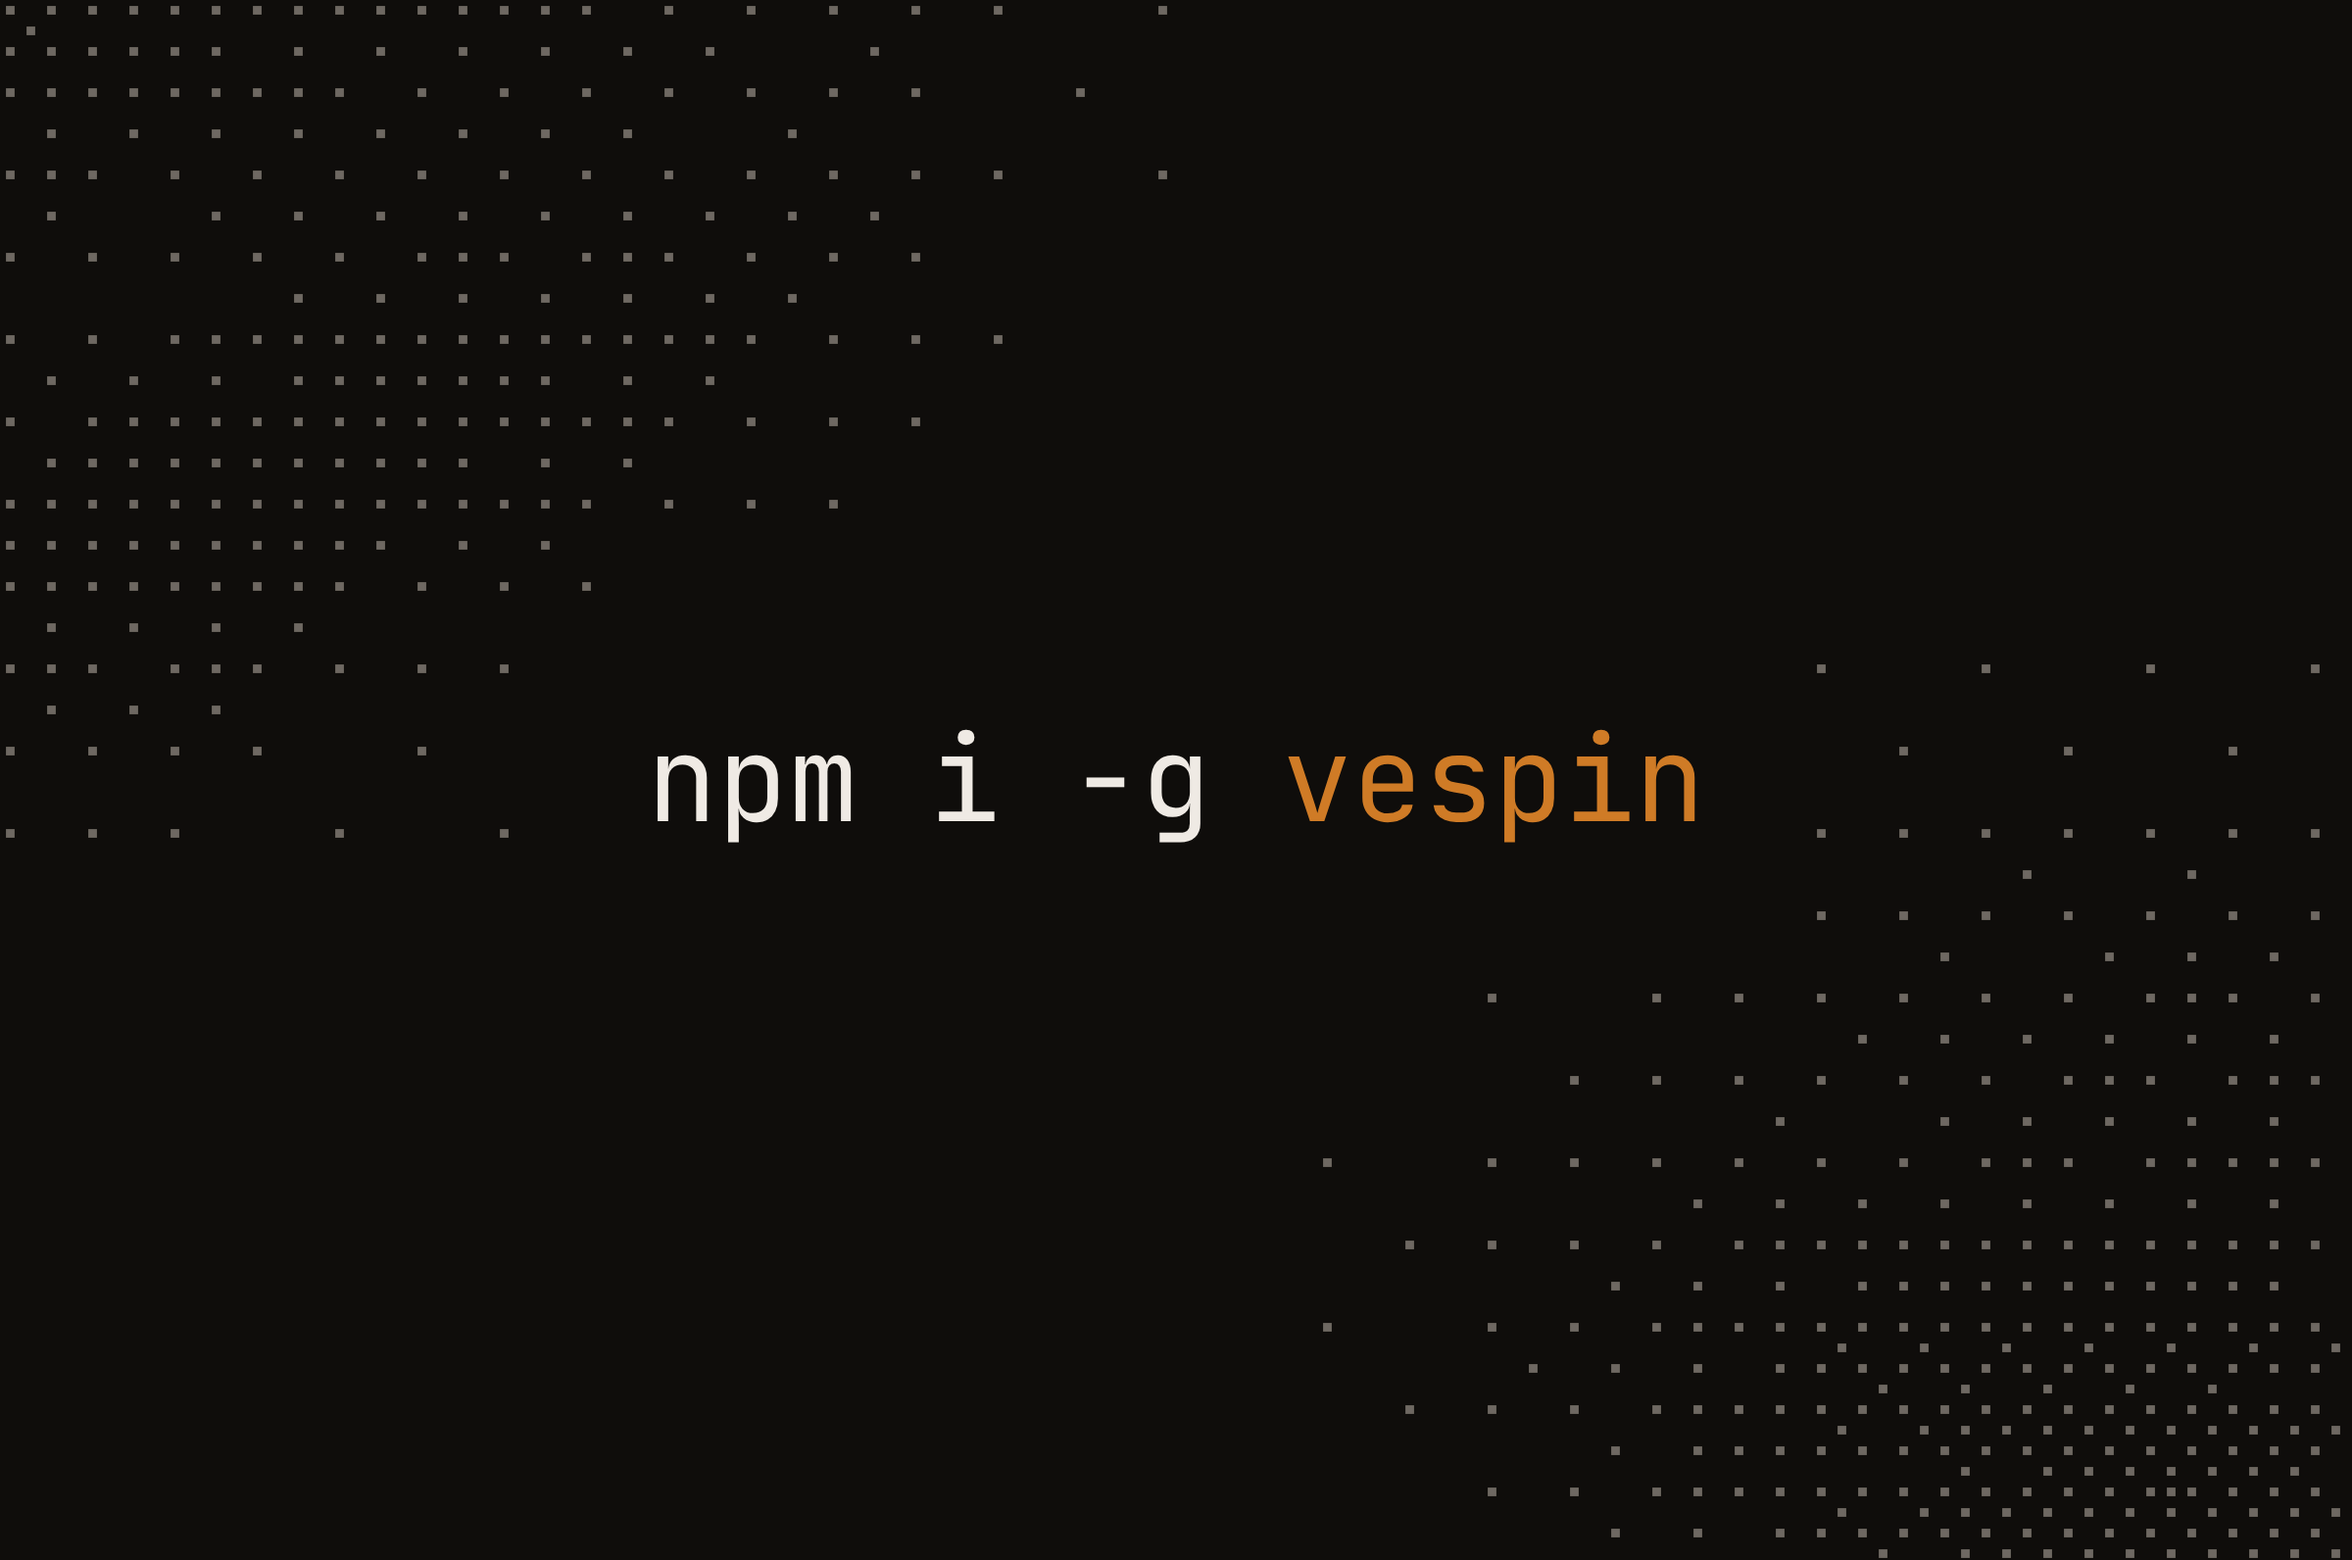
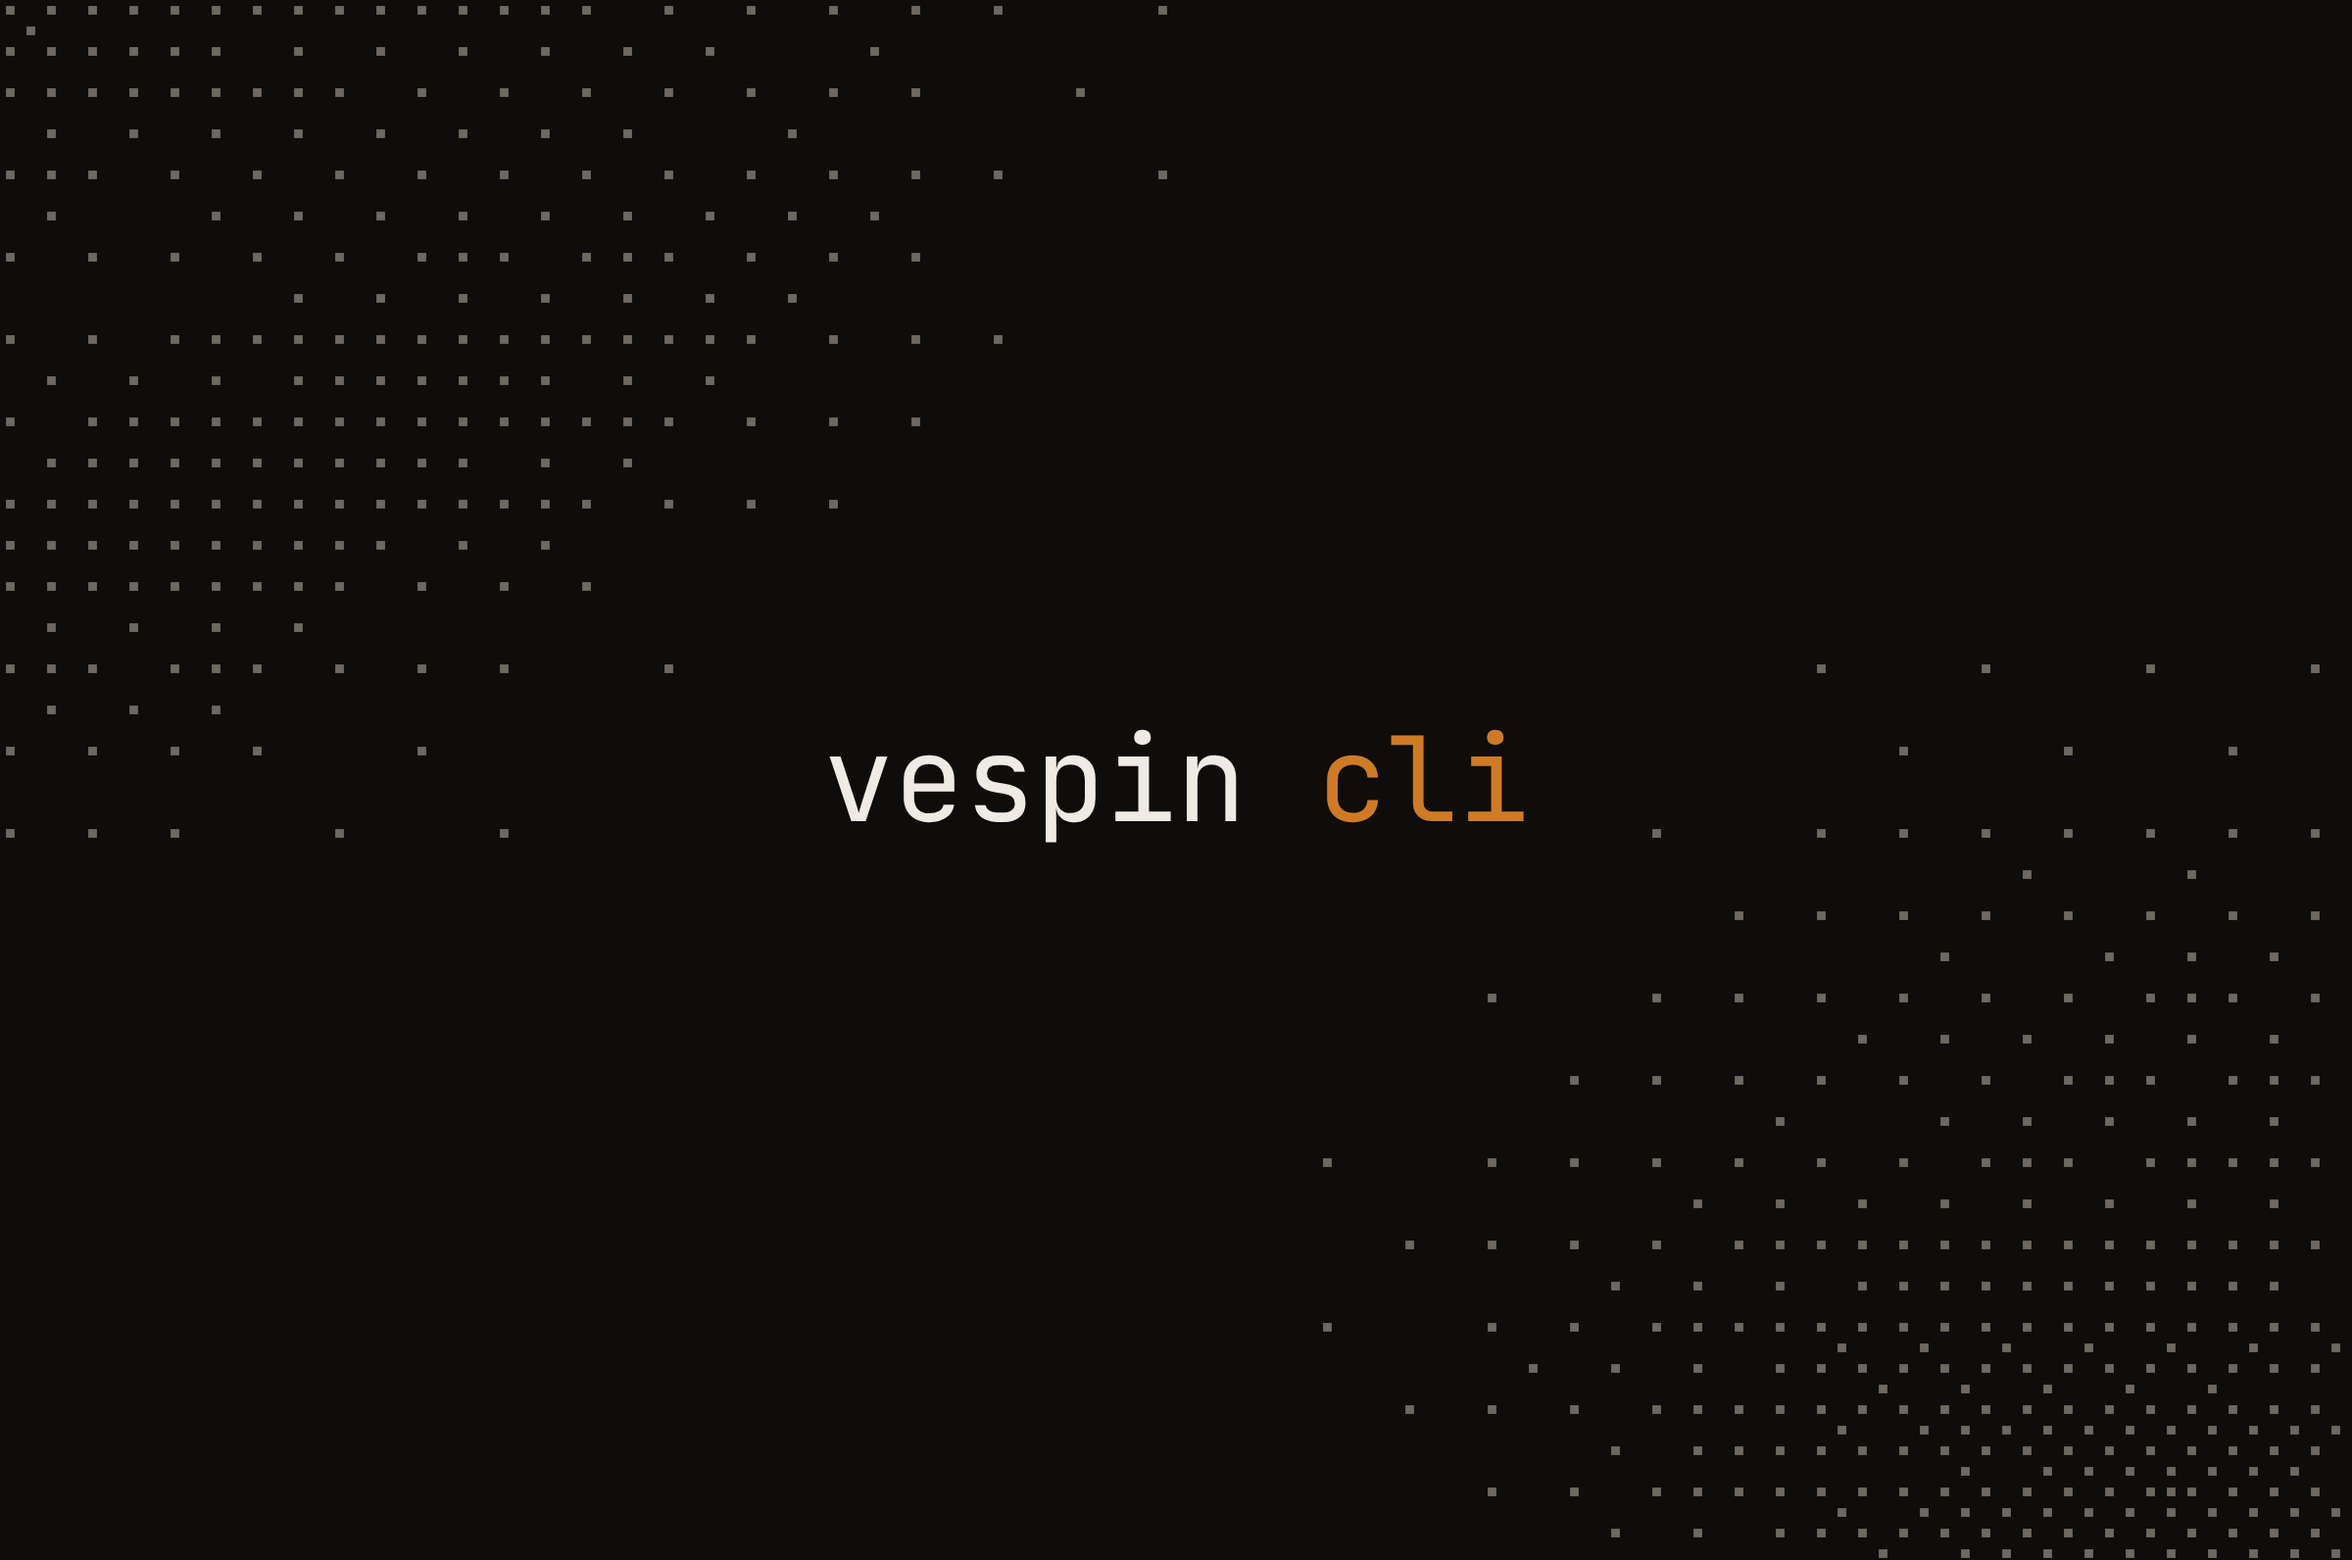
docs(changelog): crop 0.28.0's picker to the composer, and read vespin cli on the card

Changed region(s): [[0.2812, 0.4617, 0.7188, 0.554]]

diff --git a/.agents/skills/changelog-screenshots/staging/releases/v0.28.0-cli-card.html b/.agents/skills/changelog-screenshots/staging/releases/v0.28.0-cli-card.html
@@ -33,7 +33,7 @@ const c=document.getElementById('c'),x=c.getContext('2d');const W=2400,H=1592;
 x.fillStyle=ground;x.fillRect(0,0,W,H);
 const cell=7*S,dot=cell*0.42;const w=W/S,h=H/S;
 // The address, laid out once, for both the plate and the dotted lettering.
-const word1=q.get('w1')??'npm i -g ',word2=q.get('w2')??'vespin';x.font='120px Mono, monospace';
+const word1=q.get('w1')??'vespin ',word2=q.get('w2')??'cli';x.font='120px Mono, monospace';
 document.fonts.load('120px Mono, monospace').then(()=>{
  x.font='120px Mono, monospace';const w1=x.measureText(word1).width,w2=x.measureText(word2).width;const tw=w1+w2,tx=q.get('tx')?+q.get('tx'):(W-tw)/2,ty=q.get('ty')?+q.get('ty'):H/2+42;
  let mask=null;

diff --git a/.agents/skills/changelog-screenshots/staging/releases/README.md b/.agents/skills/changelog-screenshots/staging/releases/README.md
@@ -70,9 +70,9 @@ adjusting, and capture with the same profile, zoom, and crop.
 | 0.26.0 | `af2410a9` (version PR head) | not landed: the Settings › Integrations close-up of Agents with access, offered beside the card | `shot-mcp-clients` (`APP_SHOT_SETTLE=12`) | 1 | — |
 | 0.28.0 | `v0.28.0` (`50c357b7`) | `cloud-agents-on-your-mac.png` | `shot-mac` (`APP_SHOT_SETTLE=14`) | 1 | whole window |
 | 0.28.0 | `v0.28.0` (`50c357b7`) | `review-a-page-in-one-message.png` | `shot-page-review` (`APP_SHOT_SETTLE=14`) | 2 | `420,85,1150,767` |
-| 0.28.0 | `v0.28.0` (`50c357b7`) | `the-vespin-cli.png` | none: `v0.28.0-cli-card.html?p=flow&e=soft2&k=2.0&m=bare&g=%230f0d0b&i=%23efeae4&a=%23cf7b26&d=%236e6862`, 0.26.0's MCP card with its words read from `w1` and `w2` (`npm i -g ` and `vespin` unless given) | — | 2400 by 1592, unframed |
+| 0.28.0 | `v0.28.0` (`50c357b7`) | `the-vespin-cli.png` | none: `v0.28.0-cli-card.html?p=flow&e=soft2&k=2.0&m=bare&g=%230f0d0b&i=%23efeae4&a=%23cf7b26&d=%236e6862`, `&w1=vespin%20&w2=cli`, 0.26.0's MCP card with its words read from `w1` and `w2` | — | 2400 by 1592, unframed |
 | 0.28.0 | `v0.28.0` (`50c357b7`) | not landed: Settings › Vespin CLI, installed and signed in, replaced by the card | `shot-cli` (`APP_SHOT_SETTLE=10`) | 2 | `-60,-50,1380,920` |
-| 0.28.0 | `v0.28.0` (`50c357b7`) | `several-repositories.png` | `shot-repositories` (`APP_SHOT_SETTLE=10`) | 2 | `432,-60,750,500` |
+| 0.28.0 | `v0.28.0` (`50c357b7`) | `several-repositories.png` | `shot-repositories` (`APP_SHOT_SETTLE=10`) | 2 | `416,-60,768,512`, then `sips -c 762 2387 --cropOffset 760 0`: 2387 by 762 |
 
 0.14.0 was shot from `2ec91a61`, the head of its version pull request (#2871) before its pictures landed; `v0.14.0.patch` carries 0.13.0's module onto it, with 0.14.0's five shots beside the earlier ones.
 
@@ -94,7 +94,7 @@ Every shot can be checked before the Mac: on Linux, Electron runs under `xvfb-ru
 
 0.26.0 was shot from the head of its version pull request. `v0.26.0.patch` carries 0.25.0's module onto 0.26.0, whose reads moved from acts into host slices: the members, models, preferences, credentials, integrations, MCP clients, repositories, each agent's published pull request, each task's plan (`LIVE_READ.PLAN_DOCUMENT`), pages (`LIVE_READ.PAGES`), and comments are laid over the snapshot (`account-reads.ts`, `ShotSpec.live`), the account signed in under an id they are keyed by. The repository picture moved into `@repo/ui`, which reads the owner picture through a `globalThis.shotOwnerPicture` seam `shot-profiles.ts` sets. Only the shared world, Home, Board, page comments, and 0.26.0's shots are kept. A page of another task opens beside the agent only from a press inside the transcript, so `shot-places` gives the agent a reply naming the page and presses its mention; `onOpenLink` would move the whole window. Main serves the pages from `fixture-stage.ts` (`SHOT_FUNNEL_PAGE`, `SHOT_BILLING_PAGE`), which the web app's fixture switch cannot, so a page draws blank in a Linux Chromium preview and only on the Mac. Electron's binary would not download in the agent's sandbox, so the shots were previewed through the web app's fixture switch in headless Chromium, its dev server started in the same command as Playwright, since each command runs in its own network namespace. The Mac's framer runs from the throwaway worktree, since `scripts/changelog-screenshot.sh` sources `scripts/lib/`, and a capture that answers "could not create image from display" means the display is asleep. At the developer's ask, "Your agents can work Vespin" is a card rather than a window: the address on graphite with the landing's own dots, its dither and flow field copied into `v0.26.0-mcp-card.html` and kept to two soft corners, chosen after rounds that ruled out glow, a headline, a terminal, and more than two symbols. Every agent works on a task and Instant, even offline have no picture.
 
-0.27.0 has no pictures. 0.28.0 was shot from its tag, taken after it shipped. `v0.28.0.patch` carries 0.26.0's module onto 0.28.0, where the app state is one TanStack Query query: `use-app-state.ts`'s fixture staging (`staged`) lays the shot's snapshot over the fixture's, and `currentShot` reads the run through `fixtureClient()` and `appStateIn`, since `appStateNow` is gone. Plans are descriptions now (`DESCRIPTION_*`, `description-comment-wire`, `LIVE_READ.DESCRIPTION_*`), and behind the Descriptions experiment, so no shot draws one. An agent's transcript is a host slice now (`LIVE_READ.TRANSCRIPT`, by agent and `OWN_TRANSCRIPT`), which `coding-agent.ts`'s `shotHeldTranscript` stages. `ShotSpec.stage` lays anything else over the snapshot, such as the desktop's capabilities (`PORT_FORWARDS`, `LOCAL_TERMINALS`, `CLI_INSTALL`) and the agent's `portForwarding`. The Local shell's port is posted to the window as 0.14.0's terminal shot did, its attach answered `null`, since `undefined` hands an act to main. A page's review is held in the renderer's storage (`app.pageReviews`, by account), which `page-review.ts` writes before the window reads it. A popup a step opens is held open by `dom-steps.ts`'s `holdOpenStep`, which presses again whenever no drawn menu or dialog holds its words, since the capture's activation closes it. New task's chip picks several only after its stand-in is replaced, so `repositories.ts` presses relay before web. The Mac's `run_on_mac` output is too short to carry pictures, so previews and finished PNGs crossed through `refs/release-shots/out`; the Mac's clone refuses `--tags` over the moved 0.8.0, 0.18.0, and 0.19.0 tags, so fetch the one tag by name. A page's frame now draws the app's ground wherever the page's own `html` sets none, so a staged page sets its `html` background (`fixture-stage.ts`'s `SHOT_PAGE`), or it stands as a box in black. Home with no tasks greets a new account and drew a blank window in the preview, so the repository picker's close-up runs from the wallpaper above the window's edge down to the composer instead, leaving the Inbox below out. At the developer's ask, The Vespin CLI is a card like 0.26.0's MCP card rather than its Settings page. The release's other sections and the Improvements have no picture.
+0.27.0 has no pictures. 0.28.0 was shot from its tag, taken after it shipped. `v0.28.0.patch` carries 0.26.0's module onto 0.28.0, where the app state is one TanStack Query query: `use-app-state.ts`'s fixture staging (`staged`) lays the shot's snapshot over the fixture's, and `currentShot` reads the run through `fixtureClient()` and `appStateIn`, since `appStateNow` is gone. Plans are descriptions now (`DESCRIPTION_*`, `description-comment-wire`, `LIVE_READ.DESCRIPTION_*`), and behind the Descriptions experiment, so no shot draws one. An agent's transcript is a host slice now (`LIVE_READ.TRANSCRIPT`, by agent and `OWN_TRANSCRIPT`), which `coding-agent.ts`'s `shotHeldTranscript` stages. `ShotSpec.stage` lays anything else over the snapshot, such as the desktop's capabilities (`PORT_FORWARDS`, `LOCAL_TERMINALS`, `CLI_INSTALL`) and the agent's `portForwarding`. The Local shell's port is posted to the window as 0.14.0's terminal shot did, its attach answered `null`, since `undefined` hands an act to main. A page's review is held in the renderer's storage (`app.pageReviews`, by account), which `page-review.ts` writes before the window reads it. A popup a step opens is held open by `dom-steps.ts`'s `holdOpenStep`, which presses again whenever no drawn menu or dialog holds its words, since the capture's activation closes it. New task's chip picks several only after its stand-in is replaced, so `repositories.ts` presses relay before web. The Mac's `run_on_mac` output is too short to carry pictures, so previews and finished PNGs crossed through `refs/release-shots/out`; the Mac's clone refuses `--tags` over the moved 0.8.0, 0.18.0, and 0.19.0 tags, so fetch the one tag by name. A page's frame now draws the app's ground wherever the page's own `html` sets none, so a staged page sets its `html` background (`fixture-stage.ts`'s `SHOT_PAGE`), or it stands as a box in black. Home with no tasks greets a new account and drew a blank window in the preview, so the repository picker's close-up is framed at the widest crop the framer takes and then cut with `sips` to the band of the chip, its menu, and the composer, at the developer's ask: the changelog page fits a wider picture to its column, capping only the height. At the developer's ask, The Vespin CLI is a card like 0.26.0's MCP card, reading vespin cli, rather than its Settings page. The release's other sections and the Improvements have no picture.
 
 0.12.0 was shot from `6d47d20f`, the head of its version pull request (#2421), before the tag existed; `v0.12.0` itself is `0dec8cda`.
 

diff --git a/CHANGELOG.md b/CHANGELOG.md
@@ -114,7 +114,7 @@ agents. Settings › Vespin CLI installs it from the Mac app and signs it in.
 [#6983](https://github.com/ReviewStage/vespin/pull/6983),
 [#7168](https://github.com/ReviewStage/vespin/pull/7168))
 
-![npm i -g vespin in light monospace, its vespin in copper, on Vespin's graphite, with the landing page's gray square dots gathering softly in the top-left and bottom-right corners.](apps/web/public/changelog/0.28.0/the-vespin-cli.png)
+![vespin cli in light monospace, its cli in copper, on Vespin's graphite, with the landing page's gray square dots gathering softly in the top-left and bottom-right corners.](apps/web/public/changelog/0.28.0/the-vespin-cli.png)
 
 ### Several repositories
 
@@ -122,7 +122,7 @@ A cloud agent can work in other repositories beside its own, each checked out
 beside it and picked together in New task's repository chip.
 ([#7117](https://github.com/ReviewStage/vespin/pull/7117))
 
-![New task's repository chip reading relay, web under Welcome back, Dean, its menu open with relay ticked as Primary and web ticked beside it, over the composer.](apps/web/public/changelog/0.28.0/several-repositories.png)
+![New task's repository chip reading relay, web, its menu open over the composer with relay ticked as Primary and web ticked beside it.](apps/web/public/changelog/0.28.0/several-repositories.png)
 
 ### Improvements
 
